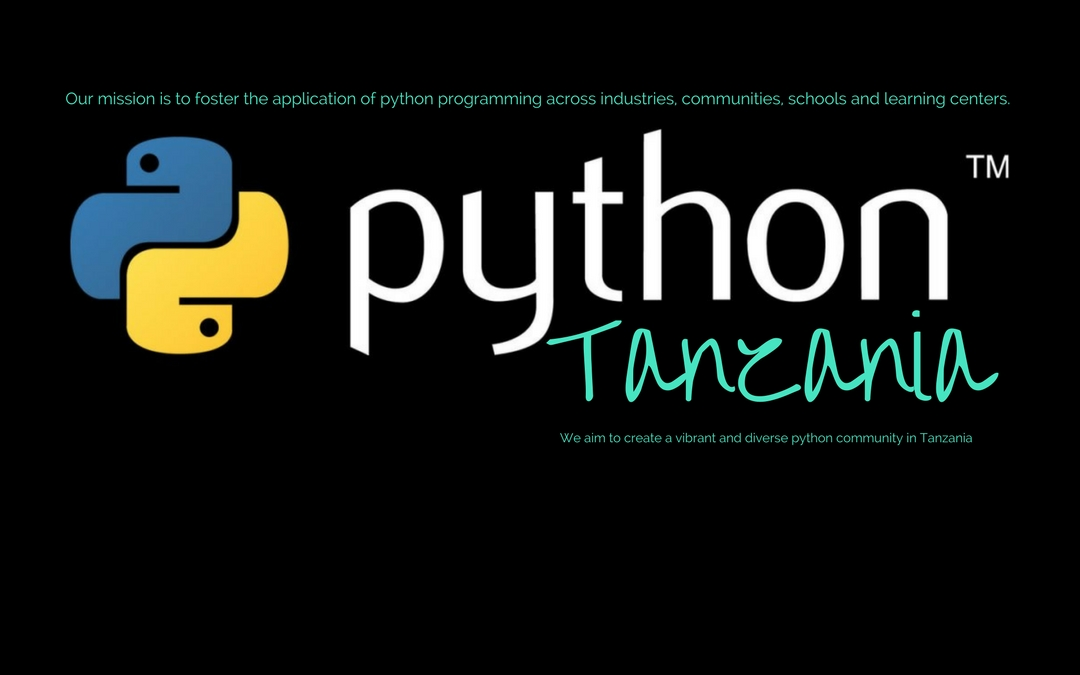
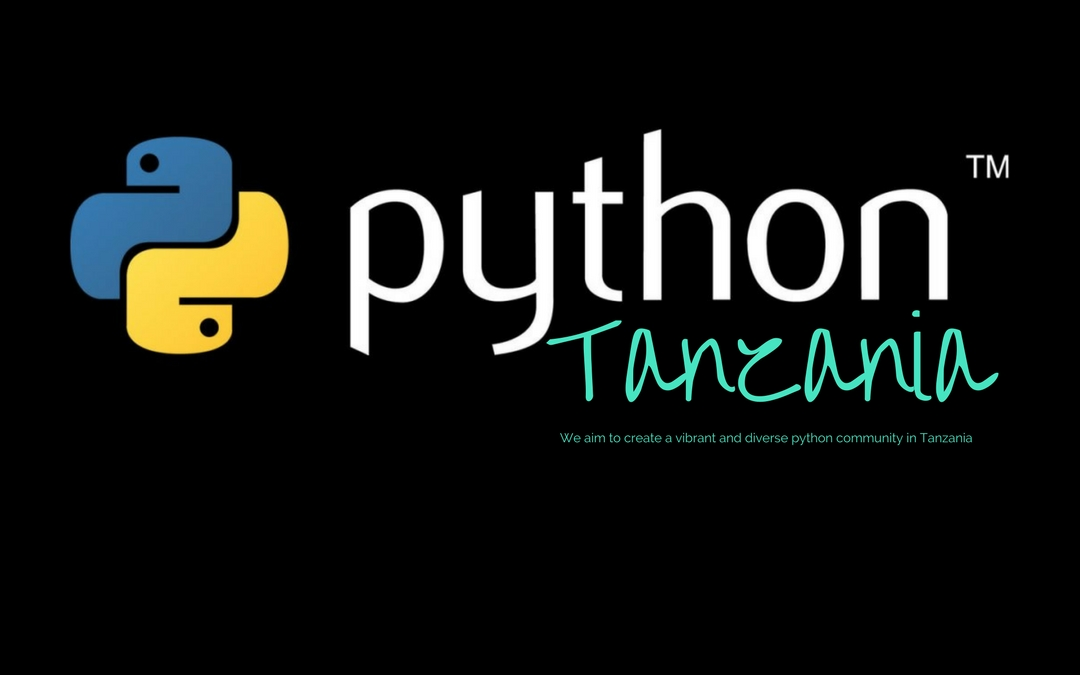
Update page cover

Changed region(s): [[0.0611, 0.1244, 0.9472, 0.1556]]

diff --git a/css/airspace.css b/css/airspace.css
@@ -117,7 +117,7 @@ font header .navbar-default .navbar-nav li a:hover {
   background-size: cover;
   background-attachment: fixed;
   background-position: 10% 0%;
-  padding: 150px 0 200px 0;
+  padding: 200px 0 200px 0;
   position: relative;
 }
 #slider:before {
@@ -145,7 +145,8 @@ font header .navbar-default .navbar-nav li a:hover {
   padding-bottom: 45px;
 }
 #slider .block p {
-  font-size: 20px;
+  font-size: 15px;
+  color:#48E5C2;
   line-height: 40px;
   font-family: 'Roboto', sans-serif;
   font-weight: 300;
@@ -155,7 +156,7 @@ font header .navbar-default .navbar-nav li a:hover {
 	wrapper Start
 --*/
 #intro {
-  padding: 100px 0;
+  padding: 80px 0;
 }
 #intro .block h2 {
   padding-top: 35px;
@@ -164,7 +165,7 @@ font header .navbar-default .navbar-nav li a:hover {
 }
 #intro .block p {
   color: #7B7B7B;
-  padding-top: 20px;
+  padding-top: 10px;
 }
 #intro .block img {
   padding-left: 40px;
@@ -181,7 +182,7 @@ font header .navbar-default .navbar-nav li a:hover {
 --*/
 #service {
   text-align: center;
-  padding: 90px 0;
+  padding: 80px 0;
 }
 #service .service-item {
   padding-bottom: 30px;
@@ -210,7 +211,7 @@ font header .navbar-default .navbar-nav li a:hover {
   background: url("../img/call-to-action-bg.jpg") no-repeat;
   background-size: cover;
   background-attachment: fixed;
-  padding: 70px 0px;
+  padding: 60px 0px;
   position: relative;
   text-align: center;
   color: #fff;

diff --git a/index.html b/index.html
@@ -28,6 +28,8 @@ permalink: /
             <h2>About Us</h2>
           </div>
           <p>Tanzania Python Users Group (Python Tanzania) is a postive peer learning community that comprise of interested Python users in Tanzania. We aim to create a vibrant and diverse python community in Tanzania. The community is open to everyone at all levels. So an absolute beginner or a maestro, program in Python or other languages but have some interest in Python, our community will embrace you. You can check out our event page for the upcoming events.</p>
+
+          <p>Our mission is to foster the application of python programming across industries, learning centers, schools and community in Tanzania</p>
           
         </div>
       </div><!-- .col-md-7 close -->
